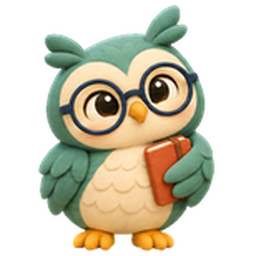
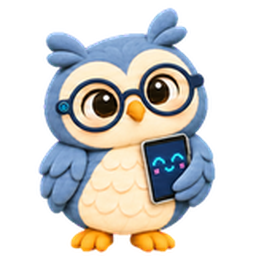
feat: 캐릭터를 sage-ai-glasses (파란 부엉이, AI 안경 · 태블릿) 시트로 교체, 아이콘 · 파비콘도
시트 구성(8칸 x 11줄, 칸 192x208, 줄별 칸 수)이 같아서 이미지만 바꿈

diff --git a/frontend/src/components/Mascot.jsx b/frontend/src/components/Mascot.jsx
@@ -1,7 +1,7 @@
 import sheet from '../assets/sage-sprites.webp'
 
 /**
- * 학습 도우미 캐릭터 "Sage" (부엉이). 원본: 팀 디자인 Sage 스프라이트 시트.
+ * 학습 도우미 캐릭터 "Sage" (파란 부엉이, AI 안경 · 태블릿). 원본: 팀 디자인 sage-ai-glasses 스프라이트 시트.
  * 시트는 칸 192×208, 가로 8칸 × 세로 11줄. 줄마다 동작 하나 (frames = 그 줄에 그려진 칸 수).
  */
 const CELL_W = 192
@@ -12,7 +12,7 @@ const ROWS = {
   jumping: { row: 4, frames: 5, ms: 140 },
   failed: { row: 5, frames: 8, ms: 260 },
   waiting: { row: 6, frames: 6, ms: 200 },
-  thinking: { row: 7, frames: 6, ms: 240 }, // 시트 이름은 running, 실제 그림은 날개로 머리 짚고 생각하는 모습
+  thinking: { row: 7, frames: 6, ms: 240 }, // 시트 이름은 running (작업 · 처리 중), 생각하는 모습으로 씀
   review: { row: 8, frames: 6, ms: 220 },
   look: { row: 9, frames: 8, ms: 260 },
 }
